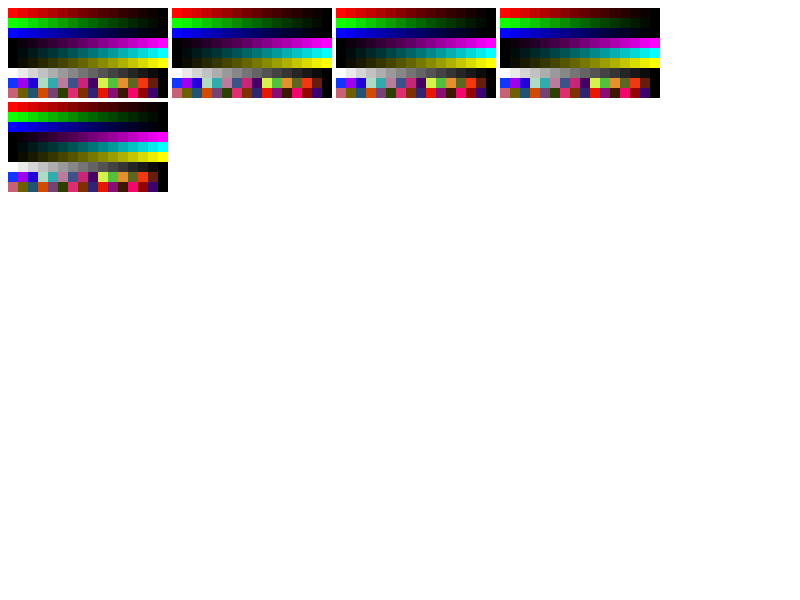
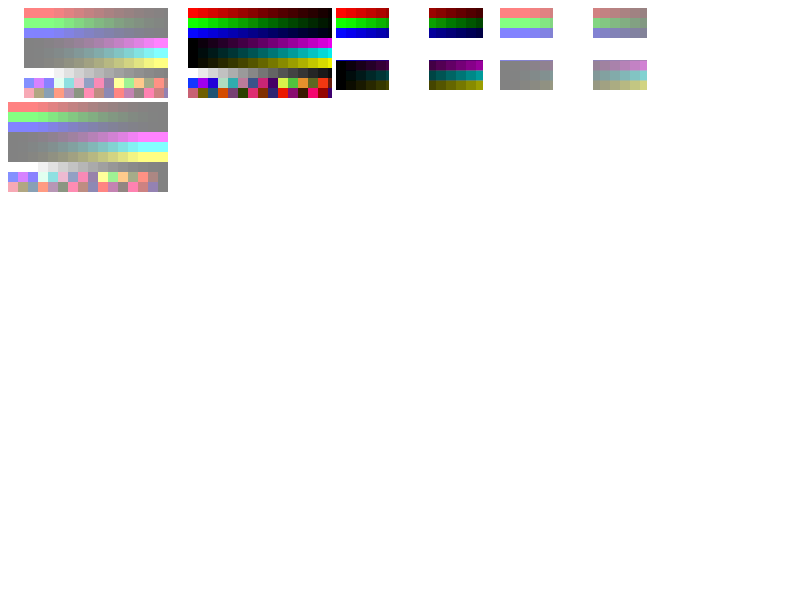
CSS Filters: apply the filters in RenderLayerBacking::paintIntoLayer when filters cannot be composited in hardware https://bugs.webkit.org/show_bug.cgi?id=75842
Reviewed by Simon Fraser.

Source/WebCore:

RenderLayers have two possible states: composited or not. When composited the RenderLayerBacking::paintIntoLayer is used
to render the result inside the graphics context of the GraphicsLayer. When not composited the RenderLayer::paintLayer method will draw
the result in the graphics context of the parent layer.

Because a recent patch forced creation of composited layers for filters, this patch makes RenderLayerBacking::paintIntoLayer aware
that it might need to apply the filters when the composition engine failed to apply them in platform code.

No new tests needed, I've just updated some of the old tests to force disable the accelerated composition
so that we can still test software painted filters.

* platform/graphics/GraphicsLayer.h:
(WebCore::GraphicsLayer::clearFilters):
* platform/graphics/ca/GraphicsLayerCA.cpp:
(WebCore::GraphicsLayerCA::setFilters):
    If filtersCanBeComposited() is false we need to reset the CoreAnimation layer to remove any previously applied filter.
* platform/graphics/ca/mac/PlatformCALayerMac.mm:
(PlatformCALayer::filtersCanBeComposited):
    Added grayscale, brightness and contrast in the list of not accelerated filters. Otherwise an assert if triggered.
* rendering/FilterEffectRenderer.cpp:
(WebCore::FilterEffectRenderer::updateBackingStore):
    Moved this method from RenderLayer::updateFilterBackingStore. It had no dependencies on RenderLayer.
[…]

Changed region(s): [[0.0, 0.0, 0.8438, 0.33]]

diff --git a/css3/filters/effect-custom.html b/css3/filters/effect-custom.html
@@ -1,9 +1,38 @@
-<script>
-if (window.layoutTestController)
-    window.layoutTestController.dumpAsText(true);
-</script>
-<img style="-webkit-filter: custom(url('resources/vertex-offset.vs') url('resources/color-offset.fs'))" src="resources/reference.png">
-<img style="-webkit-filter: custom(url('resources/vertex-offset.vs'), 6 11)" src="resources/reference.png">
-<img style="-webkit-filter: custom(url('resources/vertex-explode-detached.vs'), 3 3 detached)" src="resources/reference.png">
-<img style="-webkit-filter: custom(url('resources/vertex-explode-detached.vs') url('resources/color-offset.fs'), 3 3 detached)" src="resources/reference.png">
-<img style="-webkit-filter: custom(none url('resources/color-offset.fs'))" src="resources/reference.png">
+<!doctype html>
+<html>
+    <head>
+        <title>Testing that the custom filter is applied correctly.</title>
+        <script>
+            if (window.layoutTestController) {
+                window.layoutTestController.overridePreference("WebKitWebGLEnabled", "1");
+                // Force software rendering mode.
+                window.layoutTestController.overridePreference("WebKitAcceleratedCompositingEnabled", "0");
+                window.layoutTestController.dumpAsText(true);
+                window.layoutTestController.waitUntilDone();
+            }
+            
+            function runTest()
+            {
+                // We need to run the tests after the downloading succeeded.
+                // Using a timer is not ideal, but there seems to be no better options.
+                setTimeout(function() {
+                    if (window.layoutTestController)
+                        window.layoutTestController.notifyDone();
+                }, 200);
+            }
+        </script>
+    </head>
+    <body onload="runTest()">
+        <img style="-webkit-filter: custom(url('resources/vertex-offset.vs') url('resources/color-offset.fs'))" src="resources/reference.png">
+        <img style="-webkit-filter: custom(url('resources/vertex-offset.vs'), 6 11)" src="resources/reference.png">
+        <img style="-webkit-filter: custom(url('resources/vertex-explode-detached.vs'), 3 3 detached)" src="resources/reference.png">
+        <img style="-webkit-filter: custom(url('resources/vertex-explode-detached.vs') url('resources/color-offset.fs'), 3 3 detached)" src="resources/reference.png">
+        <img style="-webkit-filter: custom(none url('resources/color-offset.fs'))" src="resources/reference.png">
+        <!--
+            Testing that simple custom filters work in software mode. You should see 5 blocks of colored bars with different effects applied, from left to right: 
+            offset to the right with washed out colors, just offset to the right with normal colors, 4 smaller blocks attached to the corners, 4 smaller blocks 
+            attached to the corners with washed out colors, normal block with washed out colors.
+            Note: WebGL needs to be enabled for this test to succeed.
+        -->
+    </body>
+</html>

diff --git a/css3/filters/effect-hue-rotate.html b/css3/filters/effect-hue-rotate.html
@@ -1,3 +1,9 @@
+<script>
+if (window.layoutTestController) {
+    // Force software rendering mode.
+    window.layoutTestController.overridePreference("WebKitAcceleratedCompositingEnabled", "0");
+}
+</script>
 <img style="-webkit-filter: hue-rotate(0deg)" src="resources/reference.png">
 <img style="-webkit-filter: hue-rotate(45deg)" src="resources/reference.png">
 <img style="-webkit-filter: hue-rotate(90deg)" src="resources/reference.png">

diff --git a/css3/filters/effect-brightness.html b/css3/filters/effect-brightness.html
@@ -1,3 +1,9 @@
+<script>
+if (window.layoutTestController) {
+    // Force software rendering mode.
+    window.layoutTestController.overridePreference("WebKitAcceleratedCompositingEnabled", "0");
+}
+</script>
 <img style="-webkit-filter: brightness(0)" src="resources/reference.png">
 <img style="-webkit-filter: brightness(0.5)" src="resources/reference.png">
 <img style="-webkit-filter: brightness(1.0)" src="resources/reference.png">

diff --git a/css3/filters/filter-repaint.html b/css3/filters/filter-repaint.html
@@ -25,8 +25,11 @@
   </style>
   <script src="../../fast/repaint/resources/repaint.js"></script>
   <script>
-      if (window.layoutTestController)
+      if (window.layoutTestController) {
           layoutTestController.dumpAsText(true);
+          // Force software rendering mode.
+          window.layoutTestController.overridePreference("WebKitAcceleratedCompositingEnabled", "0");
+      }
 
       function repaintTest()
       {

diff --git a/css3/filters/effect-grayscale.html b/css3/filters/effect-grayscale.html
@@ -1,3 +1,9 @@
+<script>
+if (window.layoutTestController) {
+    // Force software rendering mode.
+    window.layoutTestController.overridePreference("WebKitAcceleratedCompositingEnabled", "0");
+}
+</script>
 <img style="-webkit-filter: grayscale(0)" src="resources/reference.png">
 <img style="-webkit-filter: grayscale(0.2)" src="resources/reference.png">
 <img style="-webkit-filter: grayscale(0.4)" src="resources/reference.png">

diff --git a/css3/filters/effect-contrast.html b/css3/filters/effect-contrast.html
@@ -1,3 +1,9 @@
+<script>
+if (window.layoutTestController) {
+    // Force software rendering mode.
+    window.layoutTestController.overridePreference("WebKitAcceleratedCompositingEnabled", "0");
+}
+</script>
 <img style="-webkit-filter: contrast(0)" src="resources/reference.png">
 <img style="-webkit-filter: contrast(0.5)" src="resources/reference.png">
 <img style="-webkit-filter: contrast(1.0)" src="resources/reference.png">

diff --git a/css3/filters/effect-saturate.html b/css3/filters/effect-saturate.html
@@ -1,3 +1,9 @@
+<script>
+if (window.layoutTestController) {
+    // Force software rendering mode.
+    window.layoutTestController.overridePreference("WebKitAcceleratedCompositingEnabled", "0");
+}
+</script>
 <img style="-webkit-filter: saturate(0)" src="resources/reference.png">
 <img style="-webkit-filter: saturate(0.5)" src="resources/reference.png">
 <img style="-webkit-filter: saturate(1.0)" src="resources/reference.png">

diff --git a/css3/filters/effect-opacity.html b/css3/filters/effect-opacity.html
@@ -1,3 +1,9 @@
+<script>
+if (window.layoutTestController) {
+    // Force software rendering mode.
+    window.layoutTestController.overridePreference("WebKitAcceleratedCompositingEnabled", "0");
+}
+</script>
 <img style="-webkit-filter: opacity(0)" src="resources/reference.png">
 <img style="-webkit-filter: opacity(0.2)" src="resources/reference.png">
 <img style="-webkit-filter: opacity(0.4)" src="resources/reference.png">

diff --git a/css3/filters/effect-invert.html b/css3/filters/effect-invert.html
@@ -1,3 +1,9 @@
+<script>
+if (window.layoutTestController) {
+    // Force software rendering mode.
+    window.layoutTestController.overridePreference("WebKitAcceleratedCompositingEnabled", "0");
+}
+</script>
 <img style="-webkit-filter: invert(0)" src="resources/reference.png">
 <img style="-webkit-filter: invert(0.2)" src="resources/reference.png">
 <img style="-webkit-filter: invert(0.4)" src="resources/reference.png">

diff --git a/css3/filters/effect-sepia.html b/css3/filters/effect-sepia.html
@@ -1,3 +1,9 @@
+<script>
+if (window.layoutTestController) {
+    // Force software rendering mode.
+    window.layoutTestController.overridePreference("WebKitAcceleratedCompositingEnabled", "0");
+}
+</script>
 <img style="-webkit-filter: sepia(0)" src="resources/reference.png">
 <img style="-webkit-filter: sepia(0.2)" src="resources/reference.png">
 <img style="-webkit-filter: sepia(0.4)" src="resources/reference.png">

diff --git a/css3/filters/effect-blur.html b/css3/filters/effect-blur.html
@@ -1,3 +1,9 @@
+<script>
+if (window.layoutTestController) {
+    // Force software rendering mode.
+    window.layoutTestController.overridePreference("WebKitAcceleratedCompositingEnabled", "0");
+}
+</script>
 <style>
 img {
     margin: 10px;

diff --git a/css3/filters/effect-combined.html b/css3/filters/effect-combined.html
@@ -1,3 +1,9 @@
+<script>
+if (window.layoutTestController) {
+    // Force software rendering mode.
+    window.layoutTestController.overridePreference("WebKitAcceleratedCompositingEnabled", "0");
+}
+</script>
 <style>
 img {
     margin: 10px;
